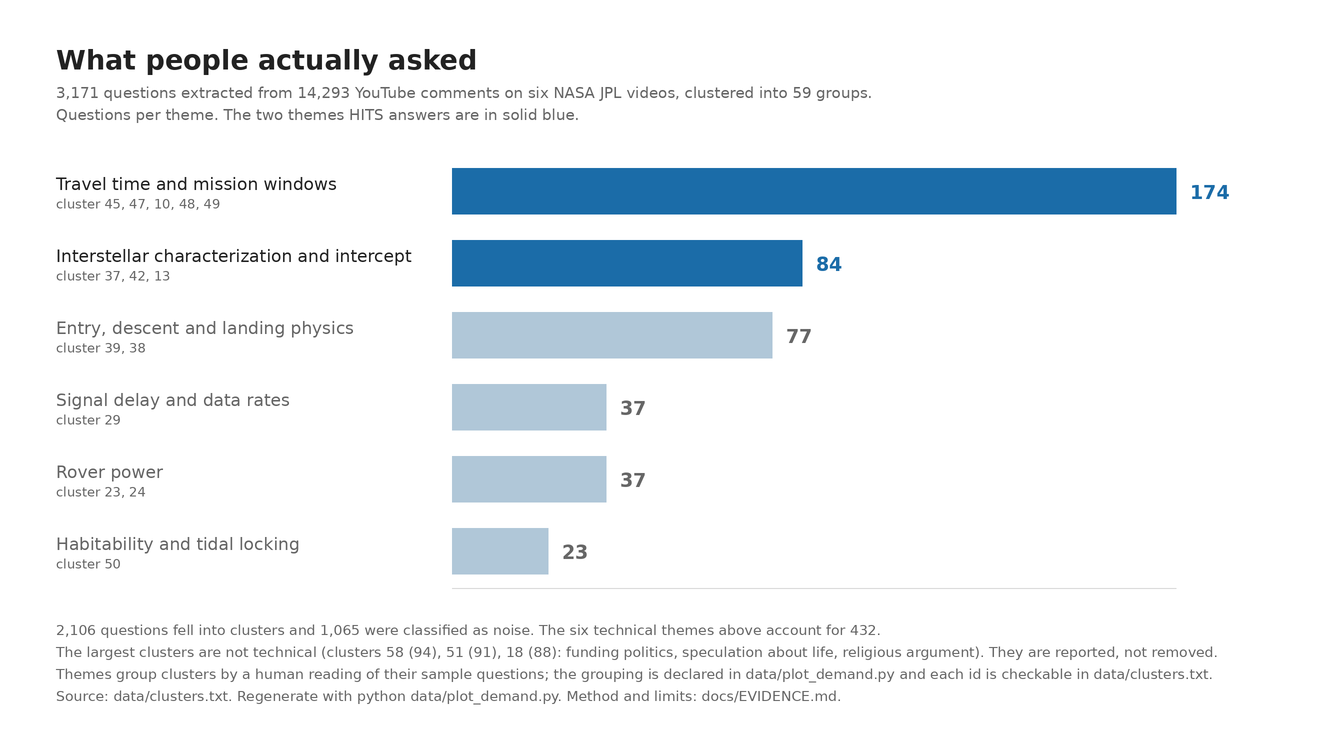
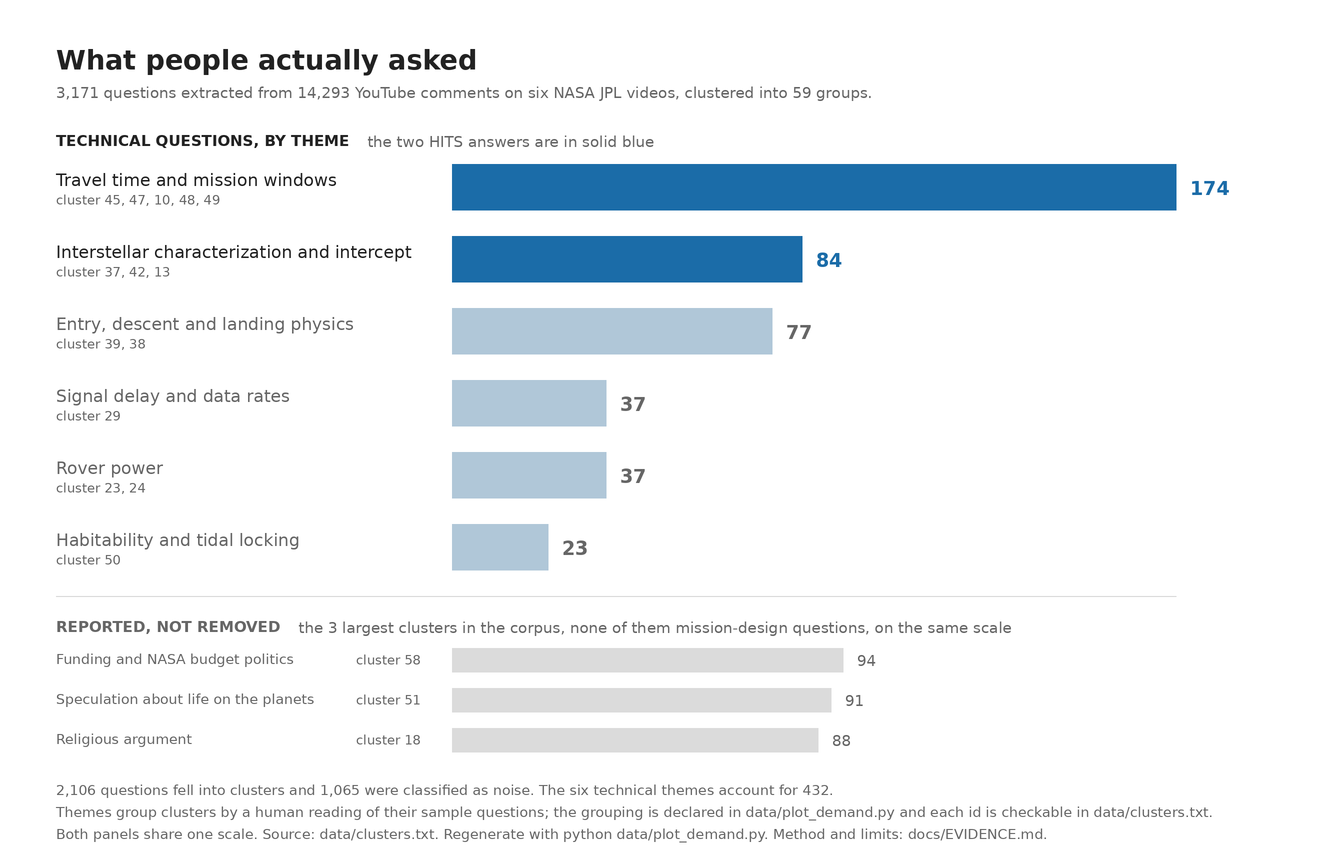
phase2: split the demand chart into headline and context panels
The non-technical clusters were a sentence in the footer, which for a
skimming judge put them in the same visual breath as the technical themes.
They are now their own panel below a rule: shorter bars, grey rather than
blue, muted labels, under the heading REPORTED, NOT REMOVED. The six
technical themes carry the page alone, with the two questions HITS answers
in the only solid blue.

Both panels are drawn against one maximum rather than each against its own.
That is the part that keeps the subordination honest: the context bars are
at their true length, 94, 91 and 88 against the technical headline's 174,
so the layout ranks them without the axis flattering anybody. A second
scale would have made the same point by lying.

Which clusters appear as context is now parsed rather than declared. The
three largest are read from the report at run time and only their captions
are declared, so the chart's phrase "the 3 largest clusters in the corpus"
cannot quietly become false: a cluster reaching that list without a caption
raises instead of drawing a blank label.

No count changed. Reading the render back caught both panel headings
running into their captions, placed by a guessed constant; captions are now
set from the measured heading width, the same way the label gutter is.

diff --git a/data/plot_demand.py b/data/plot_demand.py
@@ -53,10 +53,21 @@ THEMES = [
     ("Habitability and tidal locking",              [50],                False),
 ]
 
-# The largest clusters in the corpus are not technical. EVIDENCE.md reports them
-# rather than deleting them, since selective removal would make the technical
-# proportions unfalsifiable, and the chart says so for the same reason.
-NON_TECHNICAL_NOTE_IDS = [58, 51, 18]
+# The largest clusters in the corpus are not mission-design questions at all.
+# EVIDENCE.md reports them rather than deleting them, since selective removal
+# would make the technical proportions unfalsifiable, and the chart carries them
+# for the same reason: in a second panel, on the same scale, plainly subordinate.
+#
+# Which clusters these are is parsed, not declared. The three largest are taken
+# from the report at run time and only their descriptions are declared here, so
+# the phrase "the three largest" on the chart cannot become false without the
+# script failing first.
+CONTEXT_PANEL_COUNT = 3
+CLUSTER_DESCRIPTIONS = {
+    58: "Funding and NASA budget politics",
+    51: "Speculation about life on the planets",
+    18: "Religious argument",
+}
 
 FONT_CANDIDATES = [
     "/usr/share/fonts/truetype/dejavu/DejaVuSans.ttf",
@@ -75,6 +86,7 @@ MUTED      = (102, 102, 102)
 RULE       = (216, 216, 216)
 BAR_ACCENT = (27, 108, 168)
 BAR_PLAIN  = (176, 199, 216)
+BAR_CONTEXT = (219, 219, 219)
 PAPER      = (255, 255, 255)
 
 S = 2   # supersampling factor; the image is drawn at 2x and reduced, since
@@ -126,6 +138,41 @@ def theme_totals(sizes):
     return rows
 
 
+def context_rows(sizes, count: int = CONTEXT_PANEL_COUNT):
+    """
+    The largest clusters in the corpus, whatever they turn out to be.
+
+    Read from the parsed report rather than declared, so the chart's claim that
+    these are the largest cannot drift from the data. Only the descriptions are
+    declared, and a cluster reaching this list without one is an error rather
+    than a blank label: it means the corpus changed and somebody needs to read
+    the new cluster's questions before captioning it.
+    """
+    top = sorted(sizes.items(), key=lambda kv: (-kv[1], kv[0]))[:count]
+    undescribed = [cid for cid, _ in top if cid not in CLUSTER_DESCRIPTIONS]
+    if undescribed:
+        raise ValueError(
+            f"cluster(s) {undescribed} are now among the {count} largest and have "
+            f"no description. Read their questions in data/clusters.txt and add "
+            f"one to CLUSTER_DESCRIPTIONS.")
+    return [{"id": cid, "total": size, "label": CLUSTER_DESCRIPTIONS[cid]}
+            for cid, size in top]
+
+
+def _panel_heading(d, left, y, heading, heading_ink, caption, f_head, f_cap):
+    """
+    Draw a panel heading and set its caption after it, measured rather than
+    offset by a guessed constant. The first version of this chart put the
+    caption at a fixed x and the two ran together.
+
+    Returns the y below the line.
+    """
+    d.text((left * S, y * S), heading, font=f_head, fill=heading_ink)
+    caption_x = left + d.textlength(heading, font=f_head) / S + 18
+    d.text((caption_x * S, (y + 1) * S), caption, font=f_cap, fill=MUTED)
+    return y + 20
+
+
 def _font(paths, size):
     for p in paths:
         if os.path.exists(p):
@@ -133,86 +180,121 @@ def _font(paths, size):
     return ImageFont.load_default(size)
 
 
-def draw(header, sizes, rows, output_path: str = OUTPUT_PATH) -> str:
-    W, H = 1320, 752
+def draw(header, sizes, rows, context, output_path: str = OUTPUT_PATH) -> str:
+    """
+    Two panels, one scale.
+
+    The technical themes are the headline and carry the page: full-height bars,
+    dark labels, the two questions HITS answers in solid blue. The largest
+    clusters in the corpus are not technical, and they sit below a rule in a
+    shorter, greyer, explicitly captioned panel.
+
+    Both panels are drawn against the same maximum, so the lengths mean the same
+    thing in each and nothing is flattered by its own axis. That is what makes
+    the subordination honest rather than cosmetic: the context bars are drawn
+    at their true length and the top technical bar is still the longest thing
+    on the page.
+    """
+    W, H = 1320, 858
     img = Image.new("RGB", (W * S, H * S), PAPER)
     d = ImageDraw.Draw(img)
 
-    f_title = _font(FONT_CANDIDATES_BOLD, 27 * S)
-    f_sub   = _font(FONT_CANDIDATES, 15 * S)
-    f_label = _font(FONT_CANDIDATES, 17 * S)
-    f_value = _font(FONT_CANDIDATES_BOLD, 19 * S)
-    f_small = _font(FONT_CANDIDATES, 13 * S)
-    f_foot  = _font(FONT_CANDIDATES, 14 * S)
-
-    d.text((56 * S, 44 * S),
-           "What people actually asked", font=f_title, fill=INK)
-    d.text((56 * S, 84 * S),
-           f"{header['questions']:,} questions extracted from 14,293 YouTube comments on six NASA JPL "
-           f"videos, clustered into {header['clusters']} groups.",
-           font=f_sub, fill=MUTED)
-    d.text((56 * S, 106 * S),
-           "Questions per theme. The two themes HITS answers are in solid blue.",
-           font=f_sub, fill=MUTED)
+    f_title   = _font(FONT_CANDIDATES_BOLD, 27 * S)
+    f_sub     = _font(FONT_CANDIDATES, 15 * S)
+    f_panel   = _font(FONT_CANDIDATES_BOLD, 15 * S)
+    f_label   = _font(FONT_CANDIDATES, 17 * S)
+    f_value   = _font(FONT_CANDIDATES_BOLD, 19 * S)
+    f_ctx     = _font(FONT_CANDIDATES, 14 * S)
+    f_ctx_val = _font(FONT_CANDIDATES, 15 * S)
+    f_small   = _font(FONT_CANDIDATES, 13 * S)
+    f_foot    = _font(FONT_CANDIDATES, 14 * S)
 
     left   = 56
     bar_x0 = 452
     bar_x1 = 1176
-    top    = 168
-    bar_h  = 46
-    gap    = 26
+    span   = bar_x1 - bar_x0
 
-    largest = max(r["total"] for r in rows)
-    span = bar_x1 - bar_x0
+    # One scale for both panels: the longest bar anywhere sets it.
+    largest = max([r["total"] for r in rows] + [c["total"] for c in context])
 
     # A label that runs under the bars is a chart that misreads at a glance, so
     # the gutter is measured rather than eyeballed. Widen bar_x0 or shorten the
     # label; do not let this pass.
     gutter = (bar_x0 - left - 16) * S
-    for r in rows:
-        w = d.textlength(r["label"], font=f_label)
+    for text, font in ([(r["label"], f_label) for r in rows]
+                       + [(c["label"], f_ctx) for c in context]):
+        w = d.textlength(text, font=font)
         if w > gutter:
             raise ValueError(
-                f"theme label {r['label']!r} needs {w / S:.0f}px but the label "
-                f"gutter is {gutter / S:.0f}px")
+                f"label {text!r} needs {w / S:.0f}px but the label gutter is "
+                f"{gutter / S:.0f}px")
 
-    for i, r in enumerate(rows):
-        y = top + i * (bar_h + gap)
+    d.text((left * S, 44 * S), "What people actually asked", font=f_title, fill=INK)
+    d.text((left * S, 84 * S),
+           f"{header['questions']:,} questions extracted from 14,293 YouTube comments on six NASA JPL "
+           f"videos, clustered into {header['clusters']} groups.",
+           font=f_sub, fill=MUTED)
+
+    # ---- panel one: the technical themes ------------------------------------
+    y = 132
+    y = _panel_heading(d, left, y, "TECHNICAL QUESTIONS, BY THEME", INK,
+                       "the two HITS answers are in solid blue",
+                       f_panel, f_sub) + 12
+
+    bar_h, gap = 46, 26
+    for r in rows:
         colour = BAR_ACCENT if r["accent"] else BAR_PLAIN
         width = int(round(span * r["total"] / largest))
-
         d.text((left * S, (y + 6) * S), r["label"], font=f_label,
                fill=INK if r["accent"] else MUTED)
         d.text((left * S, (y + 28) * S),
                "cluster " + ", ".join(str(c) for c in r["ids"]),
                font=f_small, fill=MUTED)
-
         d.rectangle([bar_x0 * S, y * S, (bar_x0 + width) * S, (y + bar_h) * S],
                     fill=colour)
-        d.text(((bar_x0 + width + 14) * S, (y + 13) * S),
-               str(r["total"]), font=f_value,
-               fill=BAR_ACCENT if r["accent"] else MUTED)
+        d.text(((bar_x0 + width + 14) * S, (y + 13) * S), str(r["total"]),
+               font=f_value, fill=BAR_ACCENT if r["accent"] else MUTED)
+        y += bar_h + gap
 
-    # Axis rule under the bars
-    base_y = top + len(rows) * (bar_h + gap) - gap + 14
-    d.line([bar_x0 * S, base_y * S, bar_x1 * S, base_y * S], fill=RULE, width=S)
+    # ---- the divider ---------------------------------------------------------
+    y = y - gap + 26
+    d.line([left * S, y * S, bar_x1 * S, y * S], fill=RULE, width=S)
+    y += 22
 
+    # ---- panel two: context, deliberately quieter ---------------------------
+    y = _panel_heading(
+        d, left, y, "REPORTED, NOT REMOVED", MUTED,
+        f"the {len(context)} largest clusters in the corpus, none of them mission-design "
+        f"questions, on the same scale",
+        f_panel, f_sub) + 10
+
+    ctx_h, ctx_gap = 24, 16
+    for c in context:
+        width = int(round(span * c["total"] / largest))
+        d.text((left * S, (y + 3) * S), c["label"], font=f_ctx, fill=MUTED)
+        d.text(((left + 300) * S, (y + 4) * S), f"cluster {c['id']}",
+               font=f_small, fill=MUTED)
+        d.rectangle([bar_x0 * S, y * S, (bar_x0 + width) * S, (y + ctx_h) * S],
+                    fill=BAR_CONTEXT)
+        d.text(((bar_x0 + width + 14) * S, (y + 4) * S), str(c["total"]),
+               font=f_ctx_val, fill=MUTED)
+        y += ctx_h + ctx_gap
+
+    # ---- footer --------------------------------------------------------------
     technical = sum(r["total"] for r in rows)
     clustered = sum(sizes.values())
-    big = ", ".join(f"{c} ({sizes[c]})" for c in NON_TECHNICAL_NOTE_IDS)
+    y = y - ctx_gap + 30
 
-    foot_y = base_y + 34
     for line in [
         f"{clustered:,} questions fell into clusters and {header['noise']:,} were classified as noise. "
-        f"The six technical themes above account for {technical}.",
-        f"The largest clusters are not technical (clusters {big}: funding politics, speculation about "
-        f"life, religious argument). They are reported, not removed.",
+        f"The six technical themes account for {technical}.",
         "Themes group clusters by a human reading of their sample questions; the grouping is declared in "
         "data/plot_demand.py and each id is checkable in data/clusters.txt.",
-        "Source: data/clusters.txt. Regenerate with python data/plot_demand.py. Method and limits: docs/EVIDENCE.md.",
+        "Both panels share one scale. Source: data/clusters.txt. Regenerate with python data/plot_demand.py. "
+        "Method and limits: docs/EVIDENCE.md.",
     ]:
-        d.text((left * S, foot_y * S), line, font=f_foot, fill=MUTED)
-        foot_y += 22
+        d.text((left * S, y * S), line, font=f_foot, fill=MUTED)
+        y += 22
 
     img = img.resize((W, H), Image.LANCZOS)
     os.makedirs(os.path.dirname(output_path) or ".", exist_ok=True)
@@ -223,7 +305,8 @@ def draw(header, sizes, rows, output_path: str = OUTPUT_PATH) -> str:
 def main() -> int:
     header, sizes = parse_clusters()
     rows = theme_totals(sizes)
-    path = draw(header, sizes, rows)
+    context = context_rows(sizes)
+    path = draw(header, sizes, rows, context)
 
     print(f"corpus: {header['questions']} questions, {header['clusters']} clusters, "
           f"{header['noise']} noise, {sum(sizes.values())} clustered")
@@ -232,6 +315,9 @@ def main() -> int:
         parts = " + ".join(str(sizes[c]) for c in r["ids"])
         print(f"  {r['total']:4d}  {r['label']:44s} clusters {ids:16s} ({parts})")
     print(f"  {sum(r['total'] for r in rows):4d}  total across the six themes")
+    print("largest clusters overall, shown as context and not as demand:")
+    for c in context:
+        print(f"  {c['total']:4d}  {c['label']:44s} cluster {c['id']}")
     print(f"\nwrote {path}")
     return 0
 
